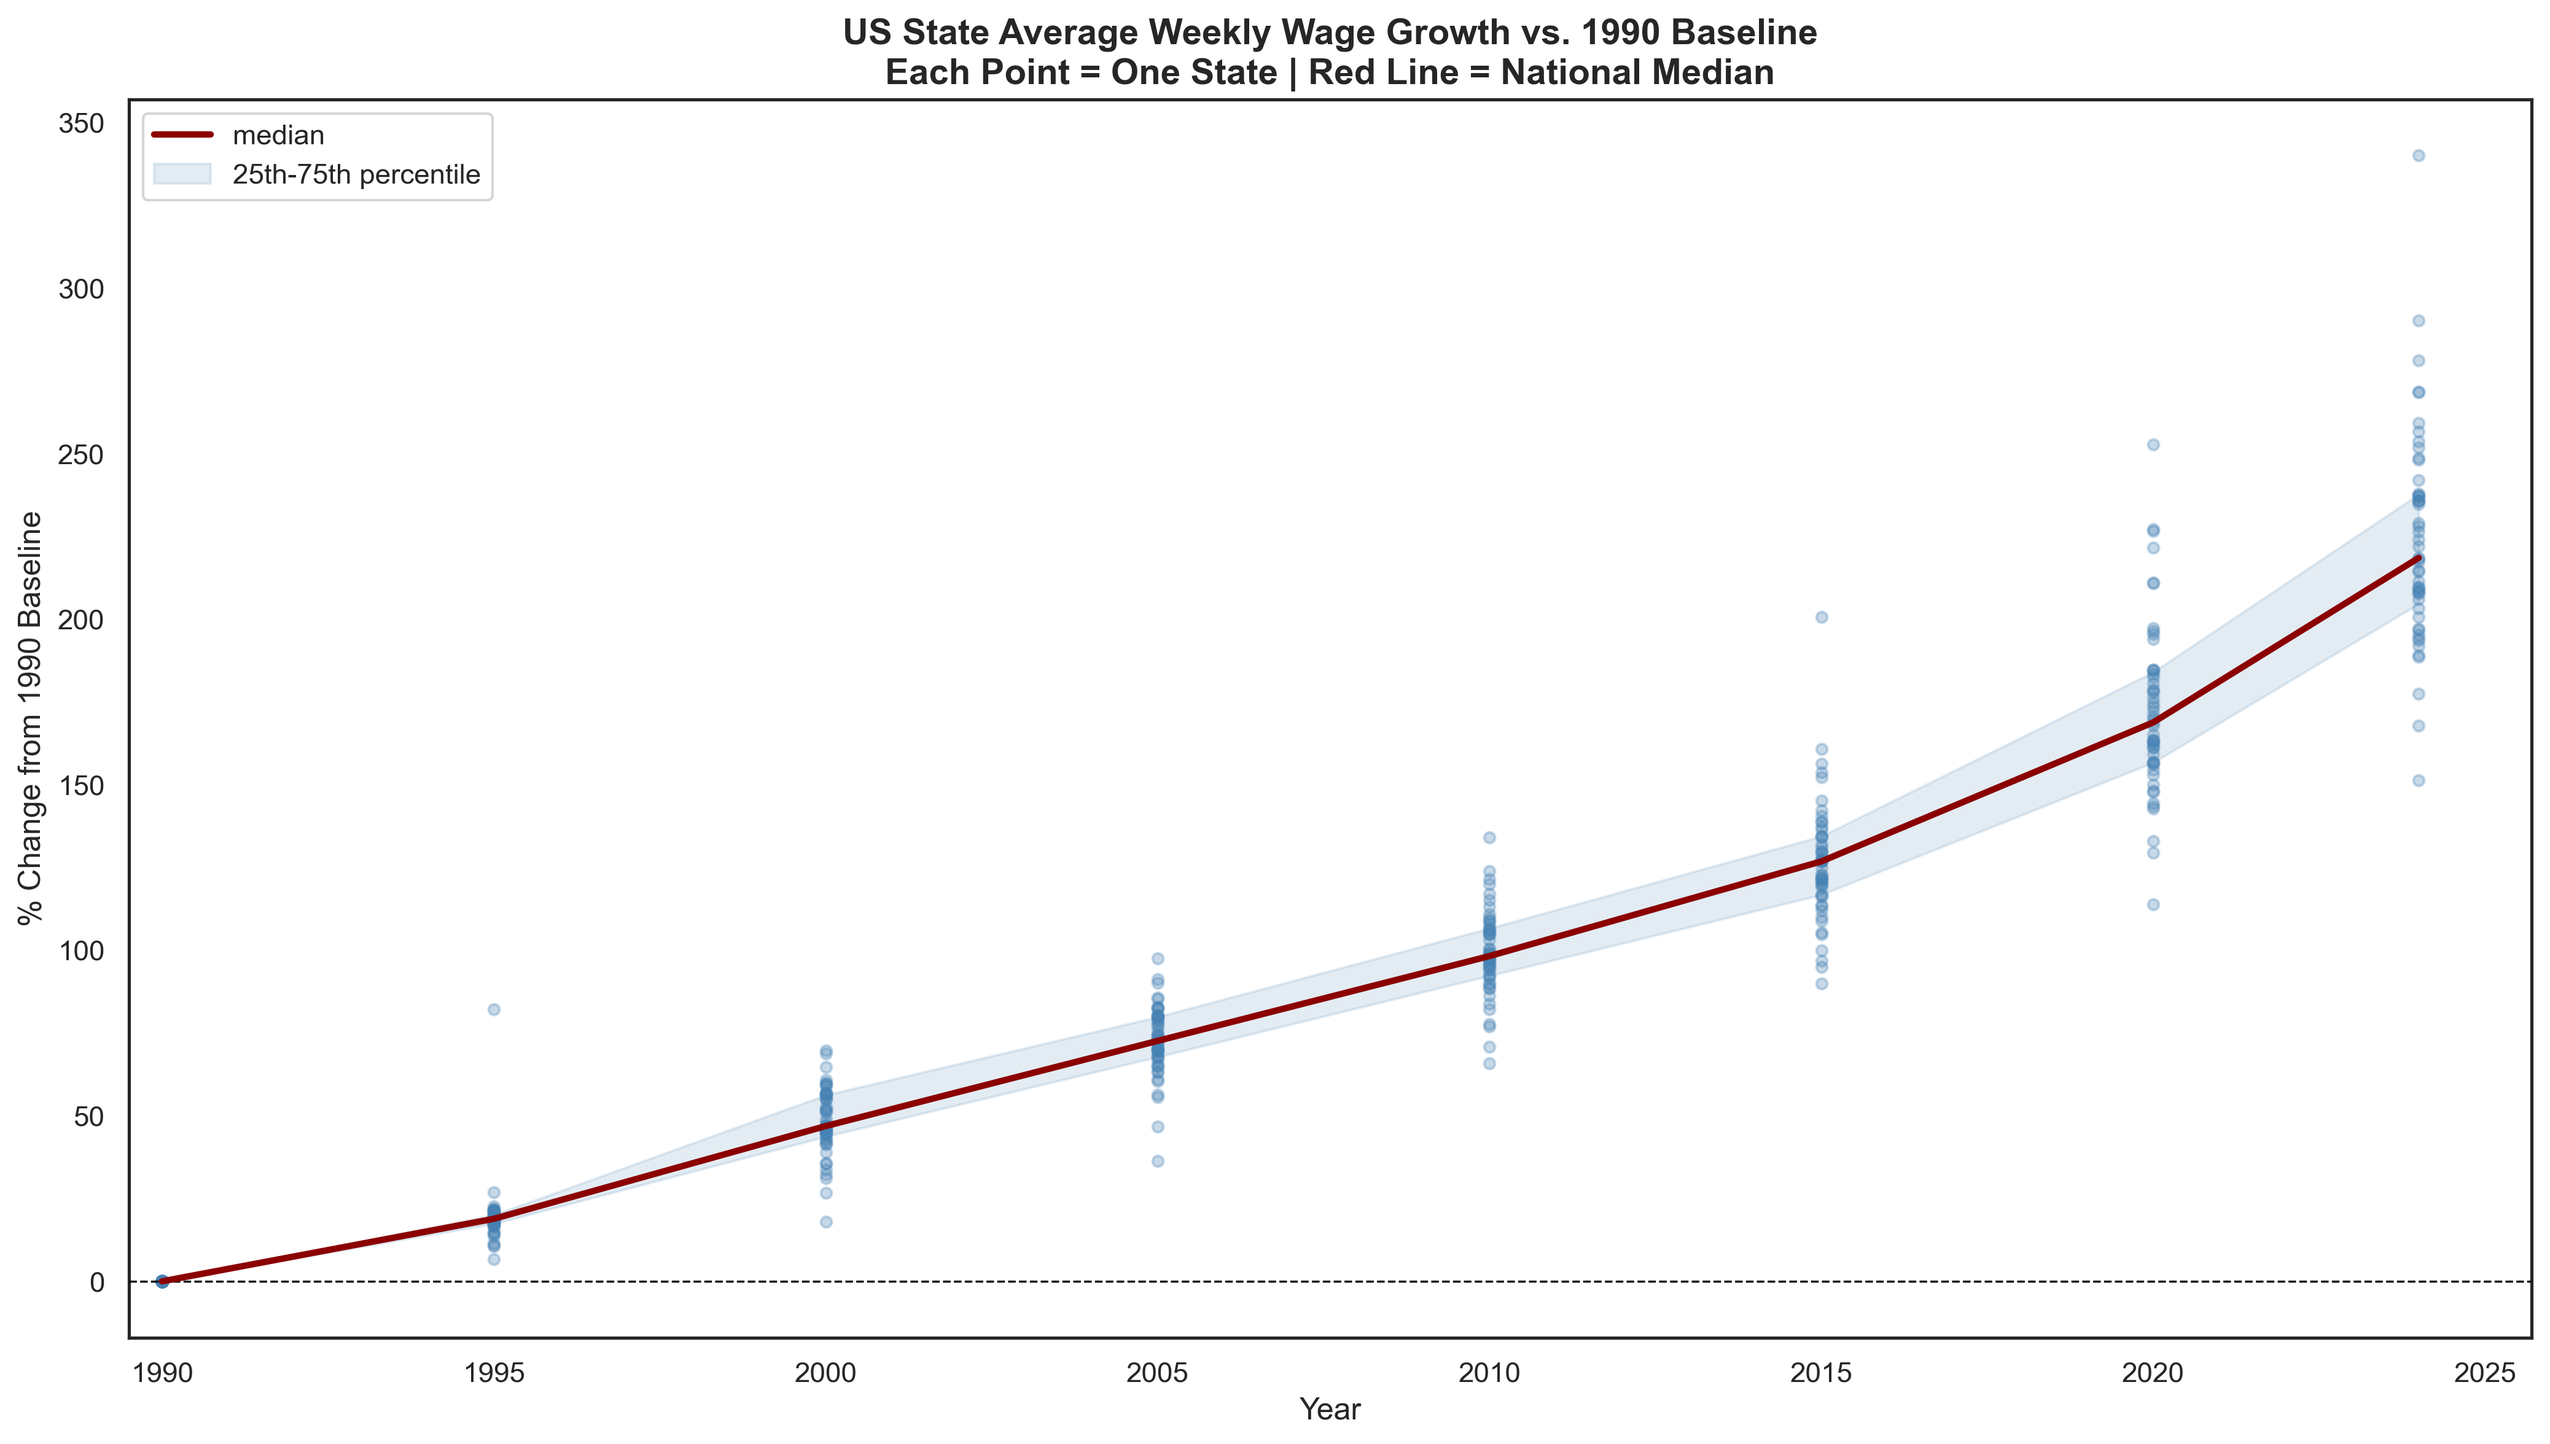
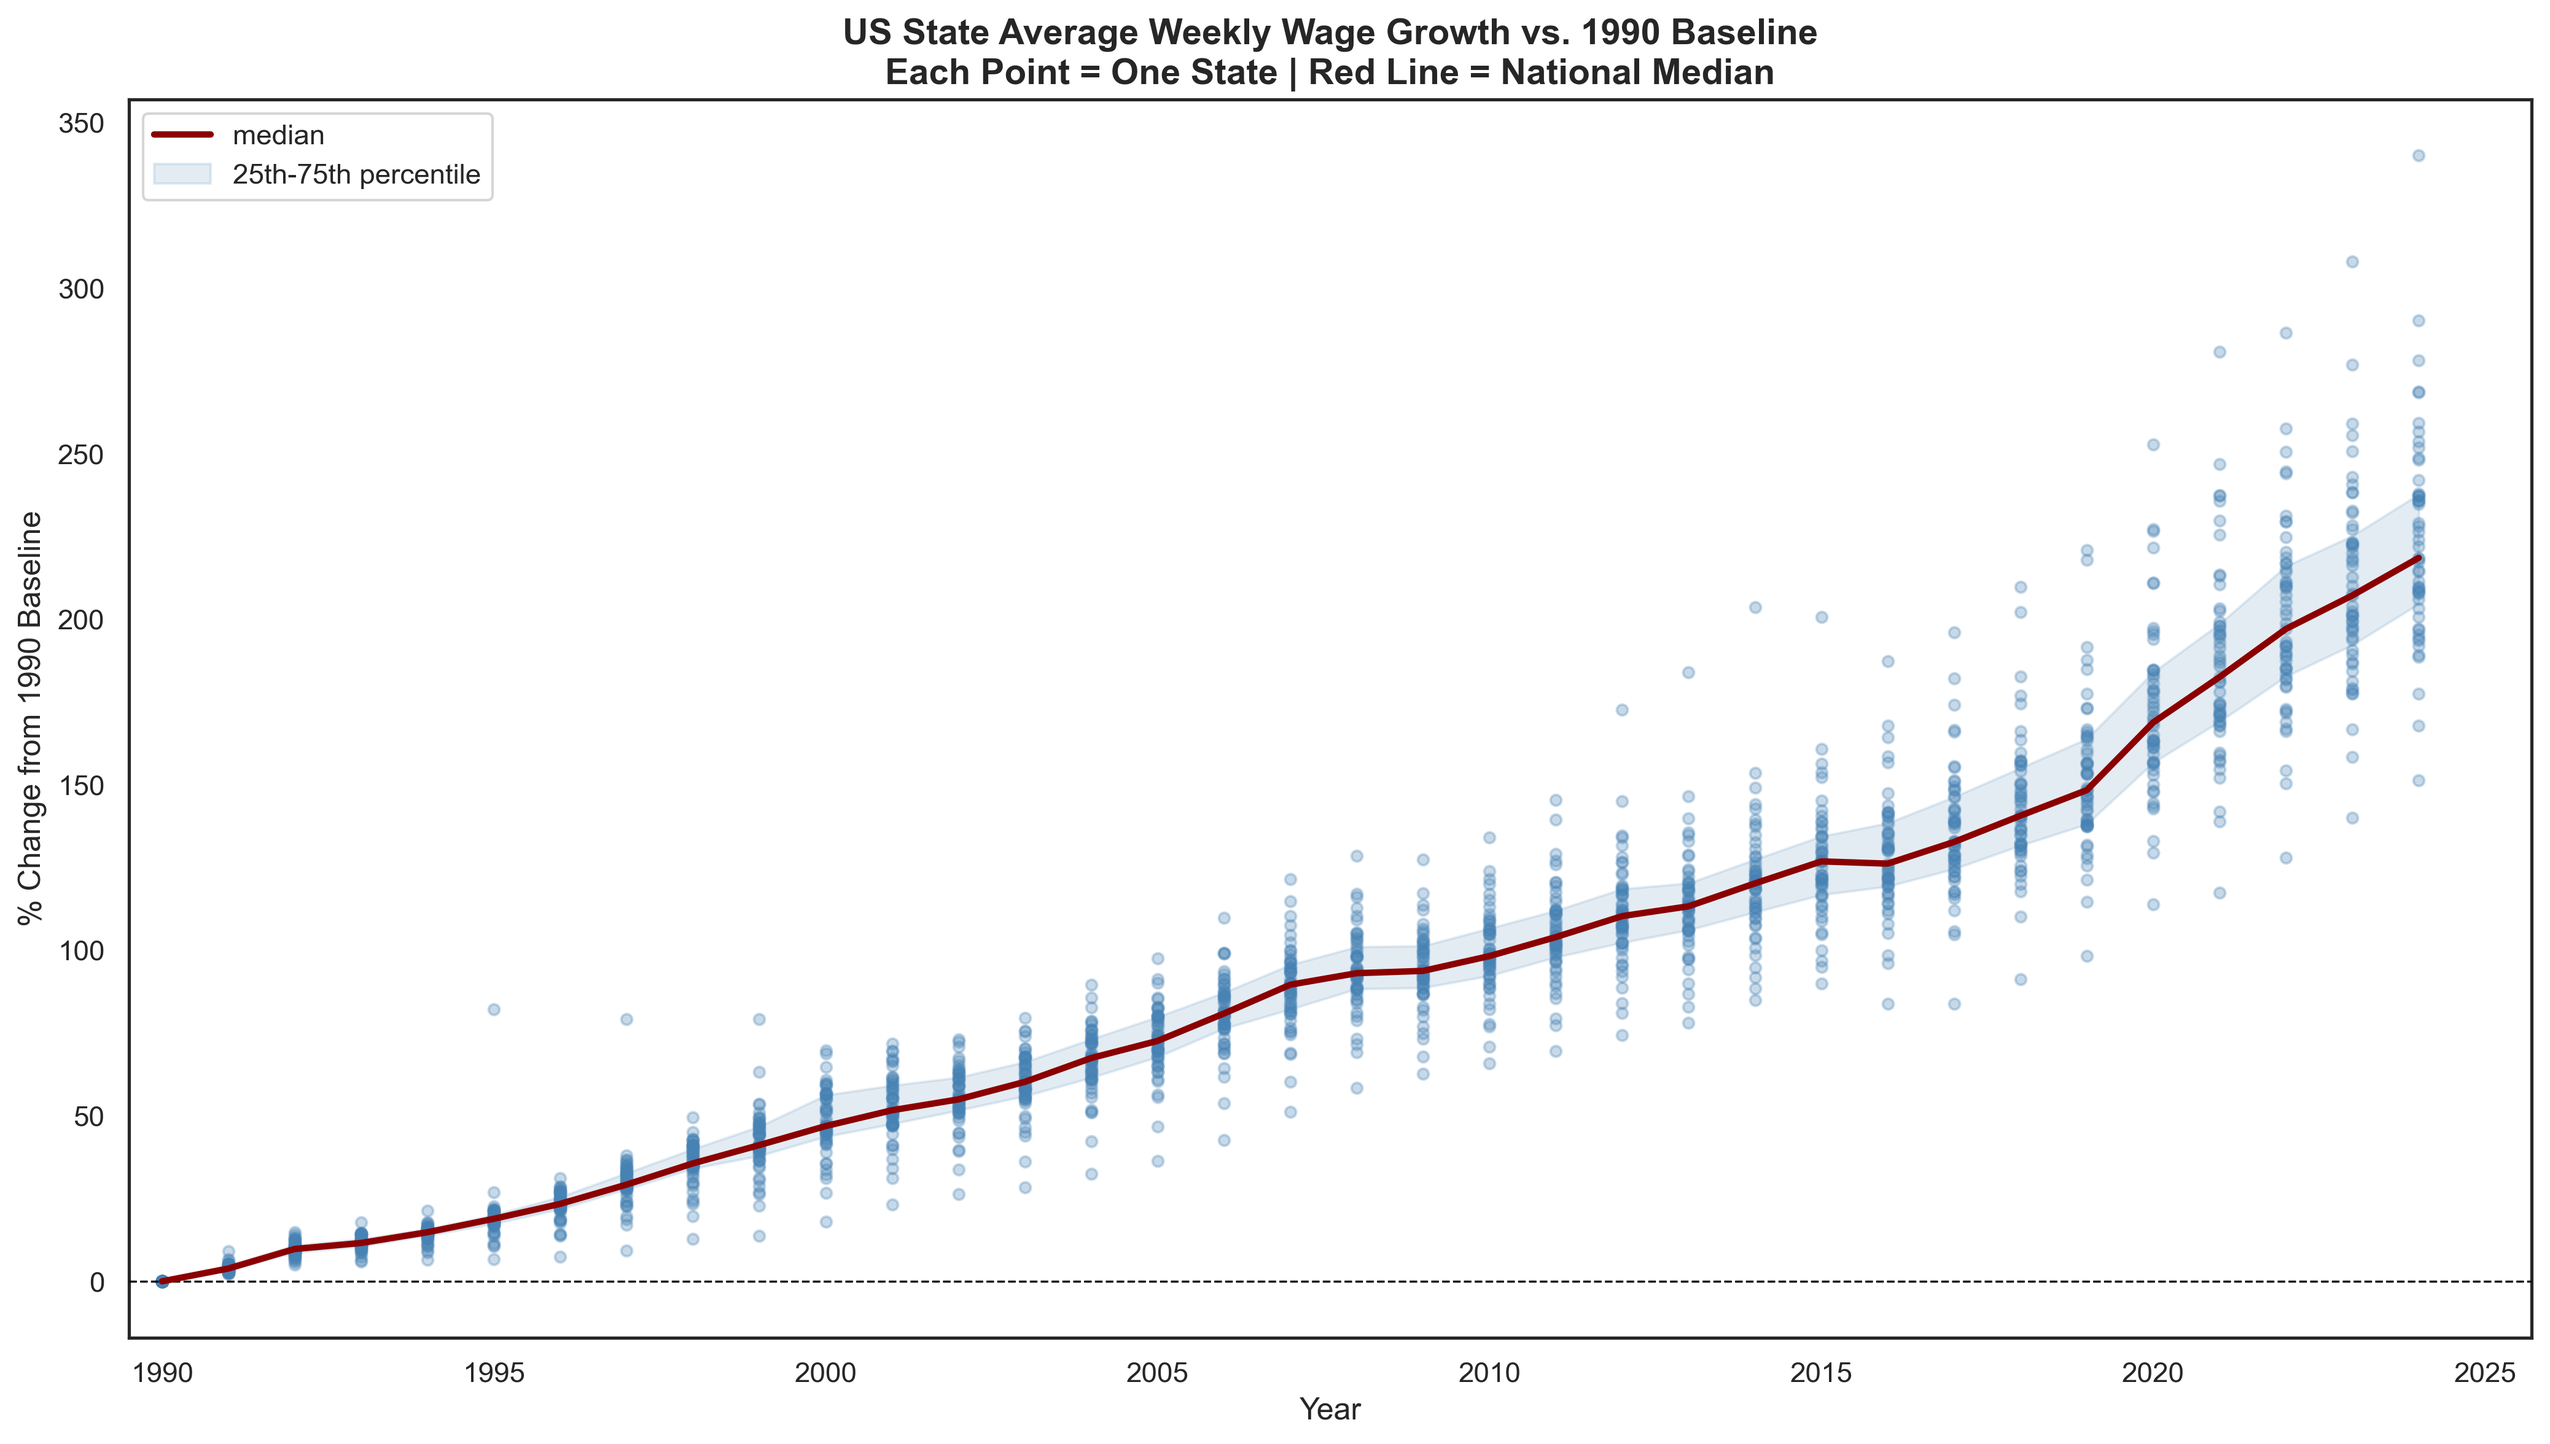
Edits for visuals

diff --git a/README.md b/README.md
@@ -49,7 +49,9 @@ Reads all QCEW zips, filters to state-level private-sector all-industry rows (`o
 - `data/wages_growth.csv` — % change from 1990
 - `data/wages_growth_2000.csv` — % change from 2000
 
-**IMPORTANT**: This section will take the longest, especially the formatting for wage growth. Expect up to 5-10 minutes for it to load.
+**IMPORTANT**: This section will take the longest, especially the formatting for wage growth. Expect up to 5-10 minutes for it to load if doing all years.
+However this can also function without all of them as long as there are two different files of two seperate years the following scripts will work but naturally, there is less of a comparison that is can run (ex. Downloading just 1990 and 2024, or 2000 and 2010)
+**This will impact all the following maps, charts, and scatter plots but the key years are the 5 year increments from 1990 onward**
 ### Step 2: Fetch Rent
 ```
 python fetch_rent.py
